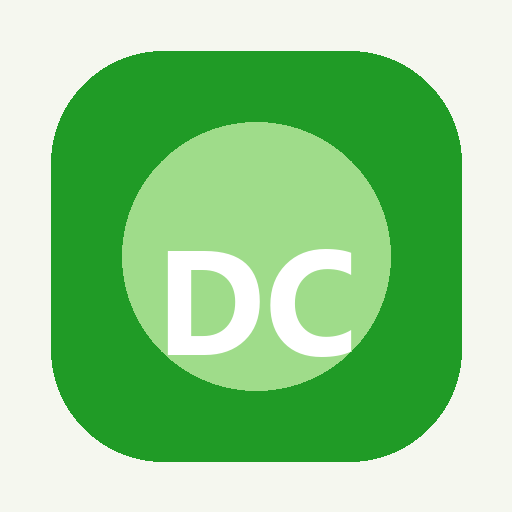
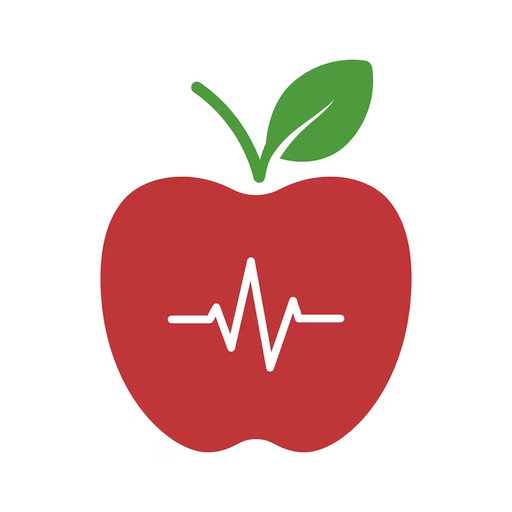
Add files via upload

diff --git a/index.html b/index.html
@@ -1610,16 +1610,33 @@
         { icon: "🥖", name: "Pão francês", amount: "1 unidade", kcal: 125 }
       ],
       "banana prata": [
-        { icon: "🍎", name: "Maçã", amount: "25g", kcal: 13 },
-        { icon: "🥭", name: "Mamão", amount: "30g", kcal: 13 },
-        { icon: "🍊", name: "Laranja", amount: "30g", kcal: 14 },
-        { icon: "🍍", name: "Abacaxi", amount: "25g", kcal: 13 }
+        { icon: "🍎", name: "Maçã", amount: "135g", kcal: 70 },
+        { icon: "🥭", name: "Mamão", amount: "165g", kcal: 71 },
+        { icon: "🍊", name: "Laranja", amount: "150g", kcal: 71 },
+        { icon: "🍍", name: "Abacaxi", amount: "140g", kcal: 70 }
+      ],
+      "maca argentina": [
+        { icon: "🍌", name: "Banana", amount: "35g", kcal: 31 },
+        { icon: "🍊", name: "Laranja", amount: "60g", kcal: 28 }
+      ],
+      "maca": [
+        { icon: "🍌", name: "Banana", amount: "35g", kcal: 31 },
+        { icon: "🍊", name: "Laranja", amount: "60g", kcal: 28 }
       ],
       "laranja lima": [
         { icon: "🍌", name: "Banana", amount: "30g", kcal: 27 },
         { icon: "🍎", name: "Maçã", amount: "50g", kcal: 26 }
       ],
+      "queijo prato": [
+        { icon: "🧀", name: "Queijo cottage", amount: "75g", kcal: 74 },
+        { icon: "🧀", name: "Queijo branco", amount: "30g", kcal: 72 }
+      ],
       "ovo mexido": [
+        { icon: "🥚", name: "Ovo", amount: "1 unidade", kcal: 78 },
+        { icon: "🍳", name: "Omelete", amount: "1 unidade", kcal: 78 },
+        { icon: "🍗", name: "Frango desfiado", amount: "50g", kcal: 83 }
+      ],
+      "ovo": [
         { icon: "🥚", name: "Ovo", amount: "1 unidade", kcal: 78 },
         { icon: "🍳", name: "Omelete", amount: "1 unidade", kcal: 78 },
         { icon: "🍗", name: "Frango desfiado", amount: "50g", kcal: 83 }
@@ -1628,6 +1645,101 @@
         { icon: "🥚", name: "Ovo", amount: "1 unidade", kcal: 78 },
         { icon: "🍳", name: "Omelete", amount: "1 unidade", kcal: 78 },
         { icon: "🍗", name: "Frango desfiado", amount: "50g", kcal: 83 }
+      ],
+      "peito de frango": [
+        { icon: "🍗", name: "Frango", amount: "145g", kcal: 239 },
+        { icon: "🍗", name: "Frango desfiado", amount: "145g", kcal: 239 },
+        { icon: "🥩", name: "Carne", amount: "95g", kcal: 238 },
+        { icon: "🐟", name: "Peixe", amount: "160g", kcal: 240 },
+        { icon: "🐟", name: "Atum", amount: "160g", kcal: 240 },
+        { icon: "🥚", name: "Ovo", amount: "155g", kcal: 240 }
+      ],
+      "frango desfiado": [
+        { icon: "🍗", name: "Frango", amount: "145g", kcal: 239 },
+        { icon: "🍗", name: "Peito de frango", amount: "145g", kcal: 239 },
+        { icon: "🥩", name: "Carne", amount: "95g", kcal: 238 },
+        { icon: "🐟", name: "Peixe", amount: "160g", kcal: 240 },
+        { icon: "🐟", name: "Atum", amount: "160g", kcal: 240 },
+        { icon: "🥚", name: "Ovo", amount: "155g", kcal: 240 }
+      ],
+      "feijao preto": [
+        { icon: "🫘", name: "Feijão", amount: "50g", kcal: 39 },
+        { icon: "🫘", name: "Feijão carioca", amount: "50g", kcal: 38 }
+      ],
+      "carne bovina musculo": [
+        { icon: "🥩", name: "Carne", amount: "90g", kcal: 225 },
+        { icon: "🍗", name: "Frango", amount: "140g", kcal: 231 },
+        { icon: "🍗", name: "Peito de frango", amount: "140g", kcal: 231 },
+        { icon: "🐟", name: "Peixe", amount: "155g", kcal: 233 },
+        { icon: "🐟", name: "Atum", amount: "155g", kcal: 233 },
+        { icon: "🥚", name: "Ovo", amount: "150g", kcal: 233 },
+        { icon: "🍳", name: "Omelete", amount: "150g", kcal: 233 }
+      ],
+      "carne bovina magra": [
+        { icon: "🥩", name: "Carne", amount: "90g", kcal: 225 },
+        { icon: "🍗", name: "Frango", amount: "135g", kcal: 223 },
+        { icon: "🍗", name: "Peito de frango", amount: "135g", kcal: 223 },
+        { icon: "🐟", name: "Peixe", amount: "150g", kcal: 225 },
+        { icon: "🐟", name: "Atum", amount: "150g", kcal: 225 },
+        { icon: "🥚", name: "Ovo", amount: "145g", kcal: 225 },
+        { icon: "🍳", name: "Omelete", amount: "145g", kcal: 225 }
+      ],
+      "arroz": [
+        { icon: "🥔", name: "Batata", amount: "140g", kcal: 112 },
+        { icon: "🍠", name: "Batata doce", amount: "130g", kcal: 112 },
+        { icon: "🌿", name: "Mandioca", amount: "90g", kcal: 113 },
+        { icon: "🌾", name: "Quinoa", amount: "30g", kcal: 110 },
+        { icon: "🌽", name: "Cuscuz", amount: "100g", kcal: 112 },
+        { icon: "🍝", name: "Macarrão", amount: "85g", kcal: 111 },
+        { icon: "🍝", name: "Macarrão cozido", amount: "85g", kcal: 111 }
+      ],
+      "batata inglesa": [
+        { icon: "🥔", name: "Batata", amount: "60g", kcal: 48 },
+        { icon: "🥔", name: "Batata cozida", amount: "60g", kcal: 48 }
+      ],
+      "batata inglesa em cubos com temperos": [
+        { icon: "🥔", name: "Batata", amount: "60g", kcal: 48 },
+        { icon: "🥔", name: "Batata cozida", amount: "60g", kcal: 48 }
+      ],
+      "coracao de frango": [
+        { icon: "🍗", name: "Peito de frango", amount: "90g", kcal: 149 },
+        { icon: "🍗", name: "Frango desfiado", amount: "90g", kcal: 149 },
+        { icon: "🥩", name: "Carne", amount: "60g", kcal: 150 },
+        { icon: "🐟", name: "Peixe", amount: "100g", kcal: 150 },
+        { icon: "🐟", name: "Atum", amount: "100g", kcal: 150 },
+        { icon: "🥚", name: "Ovo", amount: "95g", kcal: 147 },
+        { icon: "🍳", name: "Ovo mexido", amount: "95g", kcal: 147 },
+        { icon: "🍳", name: "Omelete", amount: "95g", kcal: 147 }
+      ],
+      "macarrao": [
+        { icon: "🍠", name: "Batata doce", amount: "155g", kcal: 133 },
+        { icon: "🥔", name: "Batata inglesa", amount: "165g", kcal: 132 },
+        { icon: "🫘", name: "Lentilhas", amount: "115g", kcal: 133 },
+        { icon: "🌿", name: "Mandioca", amount: "105g", kcal: 131 },
+        { icon: "🌽", name: "Cuscuz", amount: "120g", kcal: 134 },
+        { icon: "🫘", name: "Feijão", amount: "170g", kcal: 131 },
+        { icon: "🫘", name: "Grão de bico", amount: "80g", kcal: 131 },
+        { icon: "🥟", name: "Tapioca", amount: "40g", kcal: 134 },
+        { icon: "🍚", name: "Arroz cozido", amount: "100g", kcal: 130 },
+        { icon: "🍠", name: "Inhame", amount: "110g", kcal: 130 },
+        { icon: "🥖", name: "Pão francês", amount: "45g", kcal: 135 },
+        { icon: "🌾", name: "Aveia", amount: "35g", kcal: 136 },
+        { icon: "🌾", name: "Quinoa", amount: "35g", kcal: 129 }
+      ],
+      "macarrao cozido": [
+        { icon: "🍠", name: "Batata doce", amount: "155g", kcal: 133 },
+        { icon: "🥔", name: "Batata inglesa", amount: "165g", kcal: 132 },
+        { icon: "🫘", name: "Lentilhas", amount: "115g", kcal: 133 },
+        { icon: "🌿", name: "Mandioca", amount: "105g", kcal: 131 },
+        { icon: "🌽", name: "Cuscuz", amount: "120g", kcal: 134 },
+        { icon: "🫘", name: "Feijão", amount: "170g", kcal: 131 },
+        { icon: "🫘", name: "Grão de bico", amount: "80g", kcal: 131 },
+        { icon: "🥟", name: "Tapioca", amount: "40g", kcal: 134 },
+        { icon: "🍚", name: "Arroz cozido", amount: "100g", kcal: 130 },
+        { icon: "🍠", name: "Inhame", amount: "110g", kcal: 130 },
+        { icon: "🥖", name: "Pão francês", amount: "45g", kcal: 135 },
+        { icon: "🌾", name: "Aveia", amount: "35g", kcal: 136 },
+        { icon: "🌾", name: "Quinoa", amount: "35g", kcal: 129 }
       ]
     };
 
@@ -1860,11 +1972,18 @@
       ].join("");
       recommendationDots.innerHTML = Array.from({ length: currentRecommendationOptions.length + 1 }, (_, index) => `<span class="carousel-dot ${index === selectedRecommendationIndex ? "active" : ""}"></span>`).join("");
       recommendationCarousel.querySelectorAll("[data-recommendation-index]").forEach((card) => {
-        card.addEventListener("click", () => selectRecommendation(Number(card.dataset.recommendationIndex)));
+        card.addEventListener("click", (event) => {
+          if (event.target.closest("[data-substitute-rec], .recipe-button")) return;
+          selectRecommendation(Number(card.dataset.recommendationIndex));
+        });
       });
       recommendationCarousel.querySelectorAll("[data-substitute-rec]").forEach((button) => {
+        button.addEventListener("pointerdown", (event) => {
+          event.stopPropagation();
+        });
         button.addEventListener("click", (event) => {
           event.stopPropagation();
+          event.stopImmediatePropagation();
           openSubstituteModal(Number(button.dataset.substituteRec), Number(button.dataset.substituteItem));
         });
       });
@@ -1916,7 +2035,7 @@
       const option = currentRecommendationOptions?.[recommendationIndex];
       if (!option?.items?.[itemIndex]) return;
       option.items[itemIndex] = { ...substitute, substituted: true };
-      selectRecommendation(recommendationIndex);
+      option.kcal = option.items.reduce((total, item) => total + (Number(item.kcal) || 0), 0);
       renderRecommendationOptions();
       closeSubstituteModal();
     }

diff --git a/service-worker.js b/service-worker.js
@@ -1,4 +1,4 @@
-const CACHE_NAME = "dieta-controlada-pwa-v2";
+const CACHE_NAME = "dieta-controlada-pwa-v5";
 
 const APP_SHELL = [
   "./",